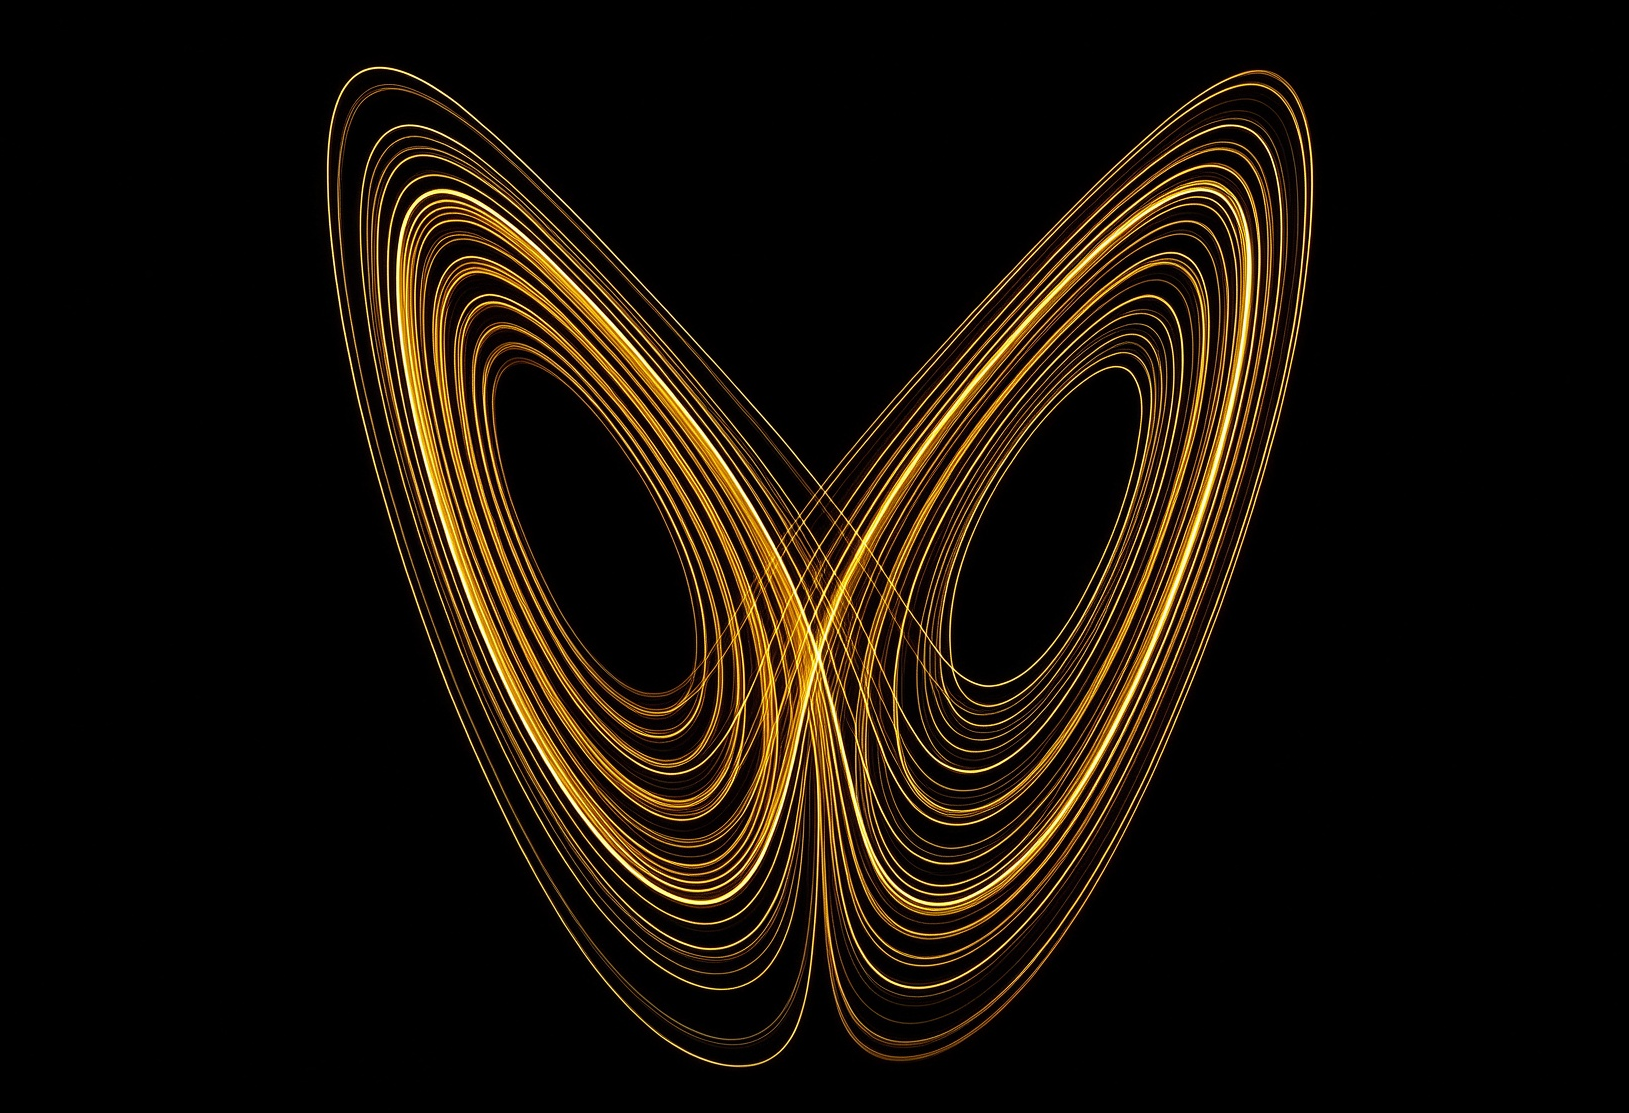
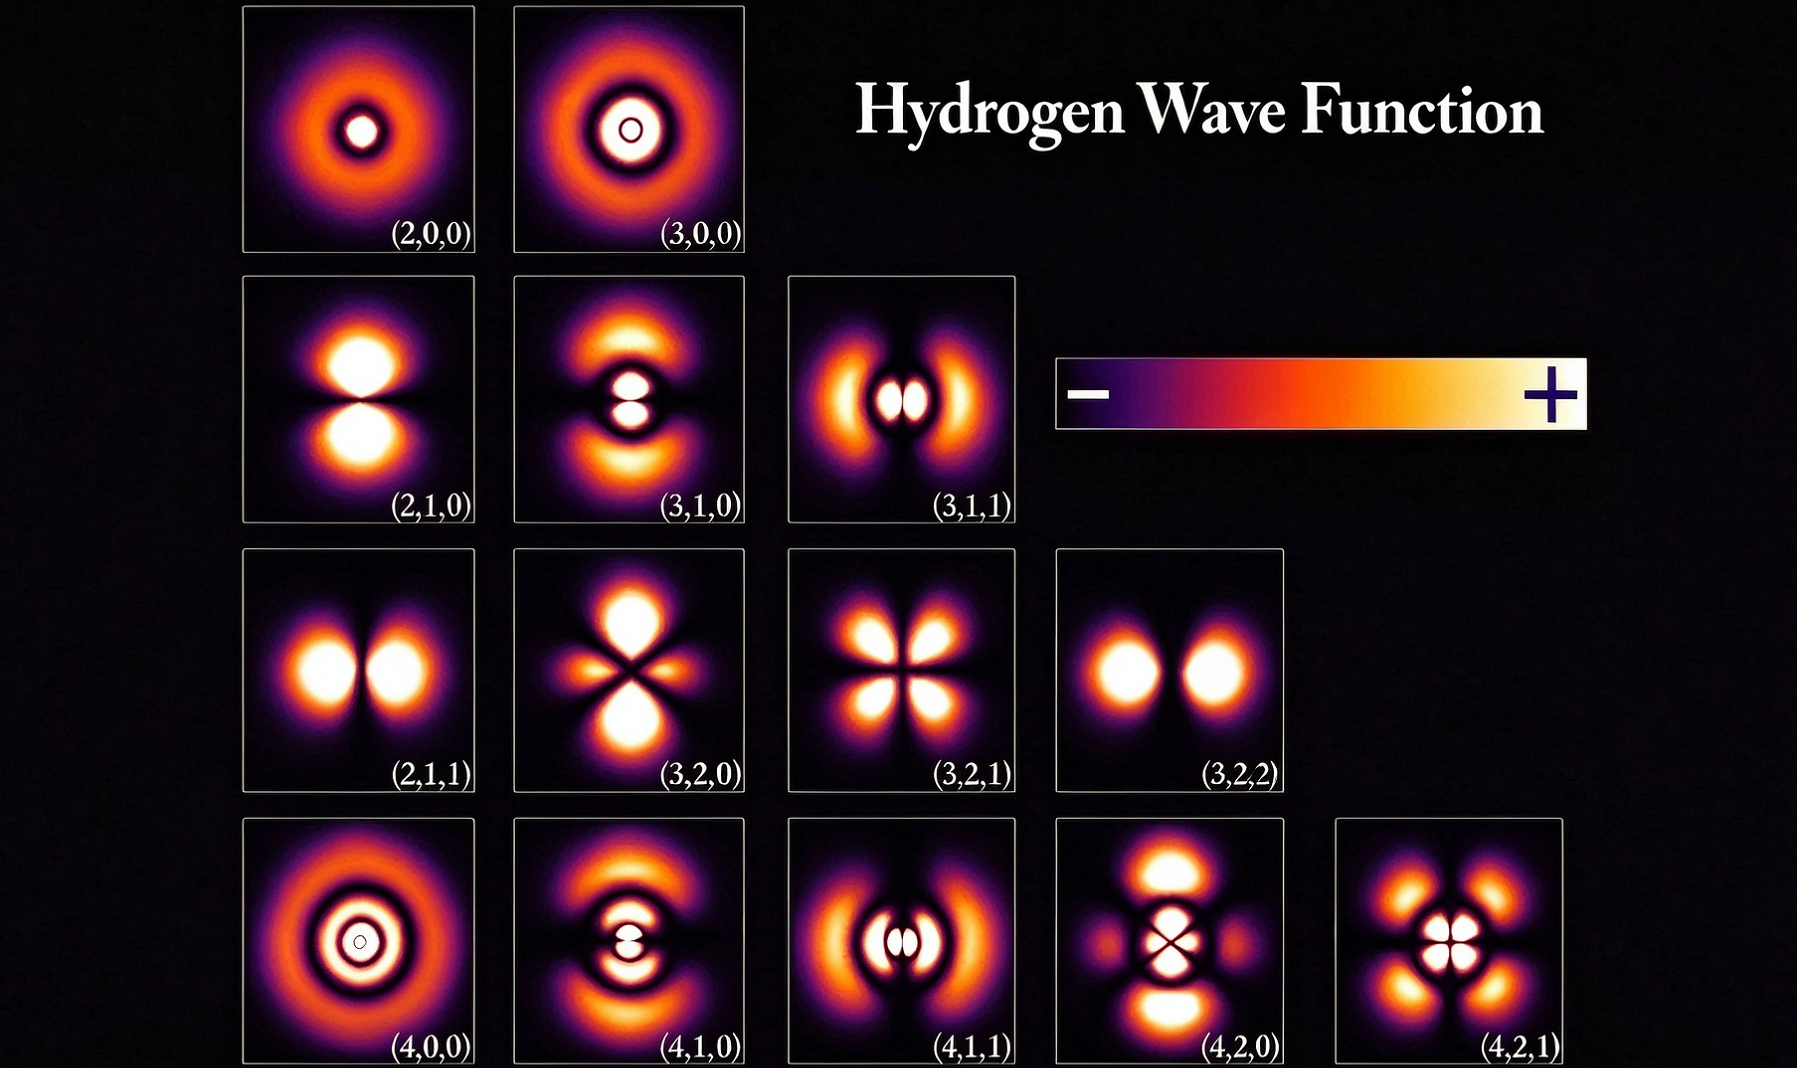
Add files via upload

diff --git a/index.html b/index.html
@@ -356,7 +356,7 @@ PHYS1001A, PHYS1001H
 
 <div class="semester">
 
-Fall 2025 (Peer-Assisted Learning), Fall 2026 (Peer-Assisted Learning)
+Fall 2025 (Peer-Assisted Learning), Fall 2026 (Peer-Assisted Learning), Winter 2027
 
 </div>
 
@@ -436,9 +436,6 @@ Galilean_Poincaré_spacetime_notes (PDF)
 
 </div>
 
-<div class="intro">
-<b>Students looking for a more in-depth treatment of the subject may refer to the materials listed below for Theoretical Mechanics A (022392).</b>
-</div>
 
 <div class="references">
 
@@ -501,8 +498,42 @@ Oxford University Press.
 Jonathan Cape.
 </p>
 
-</div>
 
+<p class="reference-title">
+    <b>References for Theoretical Mechanics</b>
+</p>
+
+<p>
+[1] 潘海俊，
+<i>理论力学导论</i>，
+中国科学技术大学出版社.
+</p>
+
+<p>
+[2] L. D. Landau and E. M. Lifshitz,
+<i>力学（第五版）</i>，
+李俊峰、鞠国兴译，
+高等教育出版社.
+</p>
+
+<p>
+[3] David Tong's Lecture Notes on <i>Classical Dynamics</i>,
+<a href="https://davidtong.org/teaching/classical-dynamics/">[lecture notes]</a>.
+</p>
+
+<p>
+[4] 陈童，
+<i>经典力学新讲</i>，
+<a href="https://newquanta.com/">陈童的量子新世界</a>.
+</p>
+
+<p>
+[5] 高显，
+<i>经典力学</i>，
+科学出版社.
+</p>
+
+</div>
 
 </div>
 
@@ -525,7 +556,7 @@ PHYS1004A, PHYS1004H
 
 <div class="semester">
 
-Spring 2025 (Pre-exam Review), Spring 2026 (Peer-Assisted Learning)
+Spring 2025, Spring 2026 (Peer-Assisted Learning), Winter 2027
 
 </div>
 
@@ -701,7 +732,7 @@ PHYS1003A
 
 <div class="semester">
 
-Fall 2025 (Pre-exam Review), Fall 2026 (Peer-Assisted Learning)
+Fall 2025, Fall 2026 (Peer-Assisted Learning), Winter 2027
 
 </div>
 
@@ -872,7 +903,7 @@ PHYS1002A
 
 <div class="semester">
 
-TBD
+Winter 2027
 
 </div>
 
@@ -949,63 +980,69 @@ lecture03 (PDF) - To be updated
 
 
 
-<!-- TM A -->
+<!-- Atomic Physics A -->
 
 <div class="course">
 
-<img class="course-image" src="chaos.png">
+<img class="course-image" src="H2.png">
 
 <div class="course-title">
 
-• Theoretical Mechanics A
+• Atomic Physics A
 
 <span class="code">
-022392
+PHYS1005A
 </span>
+</div>
+
+<div class="semester">
+
+TBD
 
 </div>
 
-<div class="references">
+<div class="material">
 
-<p class="reference-title">
-    <b>References</b>
-</p>
+📄
 
-<p class="reference-intro">
-As my studies do not focus on theoretical physics, my understanding of the mathematical structure underlying theoretical mechanics is necessarily limited. I have nevertheless listed below several textbooks and lecture notes that I have read or plan to read, as useful references for students taking the course Theoretical Mechanics A (022392):
-</p>
+<a href="test.pdf">
+lecture01 (PDF) - To be updated
+</a>
 
-<p>
-[1] 潘海俊，
-<i>理论力学导论</i>，
-中国科学技术大学出版社.
-</p>
+<br>
 
-<p>
-[2] L. D. Landau and E. M. Lifshitz,
-<i>力学（第五版）</i>，
-李俊峰、鞠国兴译，
-高等教育出版社.
-</p>
+📄
 
-<p>
-[3] David Tong's Lecture Notes on <i>Classical Dynamics</i>,
-<a href="https://davidtong.org/teaching/classical-dynamics/">[lecture notes]</a>.
-</p>
+<a href="test.pdf">
+lecture02 (PDF) - To be updated
+</a>
 
-<p>
-[4] 陈童，
-<i>经典力学新讲</i>，
-<a href="https://newquanta.com/">陈童的量子新世界</a>.
-</p>
+<br>
 
-<p>
-[5] 高显，
-<i>经典力学</i>，
-科学出版社.
-</p>
+📄
+
+<a href="test.pdf">
+lecture03 (PDF) - To be updated
+</a>
+
+<br>
+
+📄
+
+<a href="test.pdf">
+lecture04 (PDF) - To be updated
+</a>
+
+<br>
+
+📄
+
+<a href="test.pdf">
+lecture05 (PDF) - To be updated
+</a>
 
 </div>
+
 
 </div>
 
